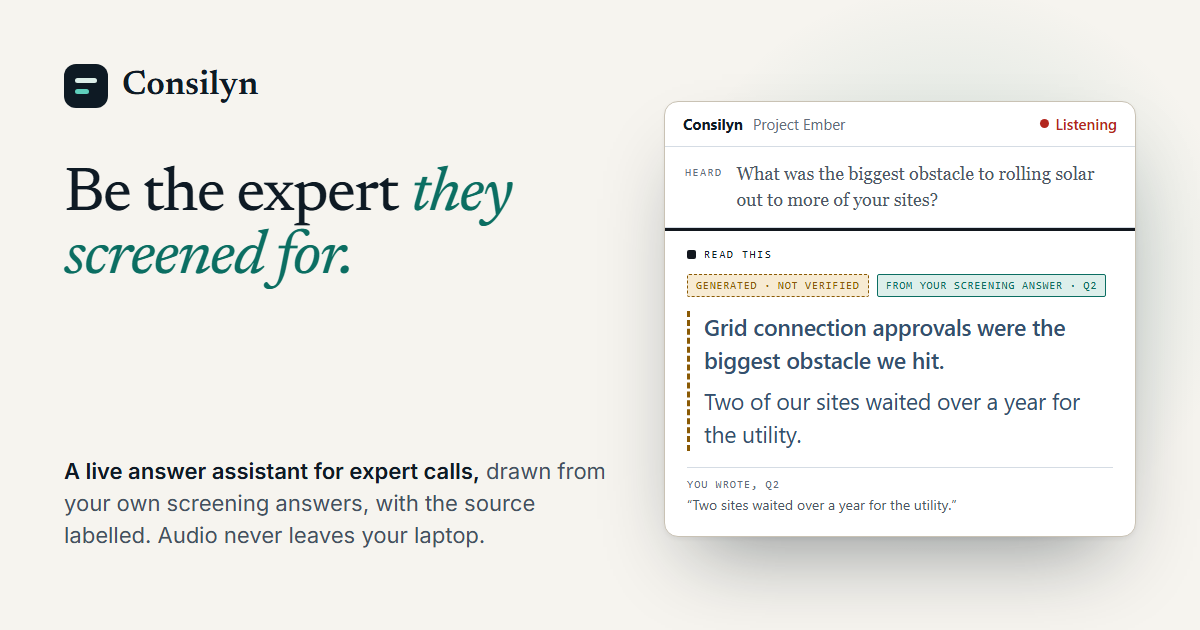
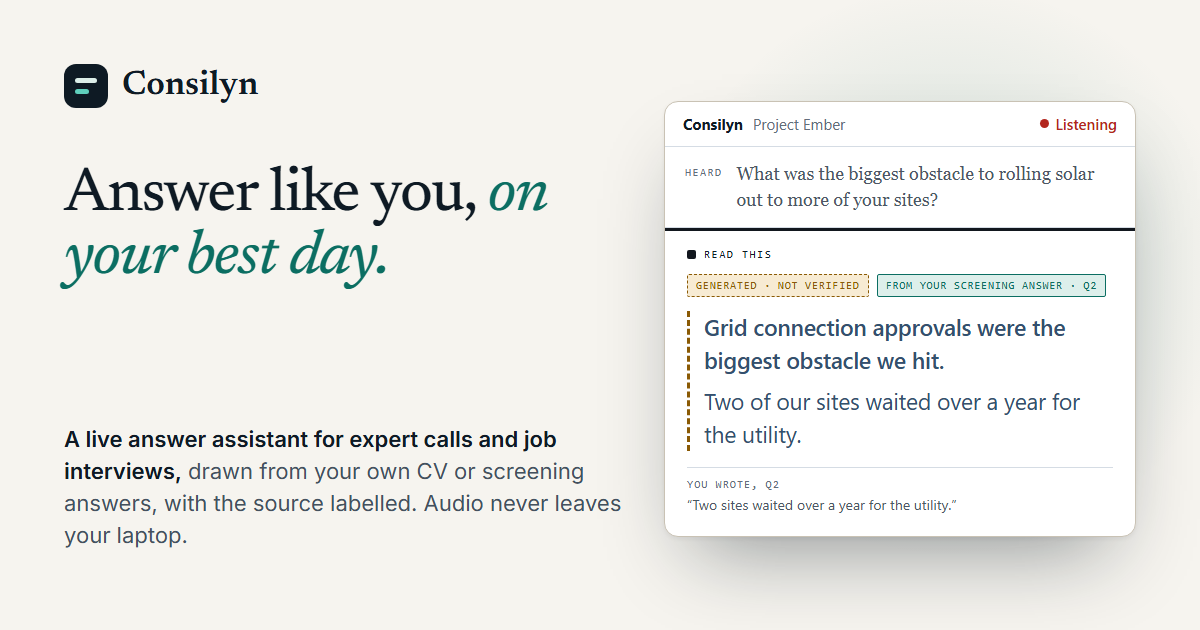
Home page leads with job interviews

Changed region(s): [[0.0308, 0.6635, 0.5242, 0.8746], [0.0308, 0.2413, 0.4625, 0.4524]]

diff --git a/index.html b/index.html
@@ -3,16 +3,16 @@
 <head>
 <meta charset="utf-8">
 <meta name="viewport" content="width=device-width, initial-scale=1">
-<title>Consilyn · AI answer assistant for expert network calls</title>
-<meta name="description" content="Short answers to say aloud on expert calls, built from your screening answers, with sources shown. Free in your browser on Windows and Mac. Audio stays local.">
+<title>Consilyn · Live answers for job interviews and expert calls</title>
+<meta name="description" content="Short answers to say aloud in job interviews and expert calls, built from your CV or screening answers, sources shown. Free in your browser. Audio stays local.">
 <link rel="canonical" href="https://consilyn.com/">
 <meta name="theme-color" content="#F6F4EF" media="(prefers-color-scheme: light)">
 <meta name="theme-color" content="#0B1117" media="(prefers-color-scheme: dark)">
 <meta name="color-scheme" content="light dark">
 <meta property="og:type" content="website">
 <meta property="og:site_name" content="Consilyn">
-<meta property="og:title" content="Consilyn · Be the expert they screened for">
-<meta property="og:description" content="Short answers to say aloud on expert calls, built from your own screening answers, with the source shown. Free in your browser on Windows and Mac; audio stays on your laptop.">
+<meta property="og:title" content="Consilyn · Answer like you, on your best day">
+<meta property="og:description" content="Short answers to say aloud in job interviews and expert calls, built from your own CV or screening answers, with the source shown. Free in your browser on Windows and Mac; audio stays on your laptop.">
 <meta property="og:url" content="https://consilyn.com/">
 <meta property="og:image" content="https://consilyn.com/assets/og.png">
 <meta property="og:image:width" content="1200">
@@ -259,9 +259,9 @@
 <section class="hero" aria-labelledby="hero-title">
   <div class="wrap hero-grid">
     <div class="hero-copy">
-      <p class="eyebrow">Live answer assistant for expert calls · Windows and Mac</p>
-      <h1 id="hero-title">Be the expert <em>they screened for.</em></h1>
-      <p class="intro">Consilyn listens to your call on your laptop and shows a short answer to say in your own words, built from the screening answers you submitted.</p>
+      <p class="eyebrow">Live answer assistant for expert calls and job interviews · Windows and Mac</p>
+      <h1 id="hero-title">Answer like you, <em>on your best day.</em></h1>
+      <p class="intro">Consilyn listens on your laptop and shows a short answer to each question, built from your own CV or screening answers. When a question catches you out, an answer is already there, even one your CV doesn&rsquo;t cover.</p>
       <div class="cta-row">
         <a class="btn btn-primary" href="/app/" data-track="start-hero">Start free in your browser
           <svg viewBox="0 0 24 24" fill="none" stroke="currentColor" stroke-width="2" stroke-linecap="round" stroke-linejoin="round" aria-hidden="true"><path d="M5 12h14M13 6l6 6-6 6"/></svg></a>
@@ -277,14 +277,15 @@
 
     <div class="demo" id="demo" data-demo>
       <div class="demo-tabs" role="group" aria-label="Example calls">
-        <button type="button" class="demo-tab" aria-pressed="true">Energy</button>
+        <button type="button" class="demo-tab" aria-pressed="true">Job interview</button>
+        <button type="button" class="demo-tab" aria-pressed="false">Energy</button>
         <button type="button" class="demo-tab" aria-pressed="false">Procurement software</button>
         <button type="button" class="demo-tab" aria-pressed="false">Logistics</button>
       </div>
       <div class="app" aria-hidden="true">
         <div class="app-bar">
           <span class="app-brand"><span class="app-mark"></span>Consilyn</span>
-          <span class="app-client">Project Ember<em> · on-site solar and storage</em></span>
+          <span class="app-client">Northwind Health<em> · product manager</em></span>
           <span class="app-spacer"></span>
           <span class="app-live">Listening</span>
           <span class="app-timer">00:42</span>
@@ -293,7 +294,7 @@
         <div class="app-heard-slot">
           <div class="app-heard">
             <span class="app-label">Heard</span>
-            <p class="app-heard-text"><span class="who">Lee</span>What was the biggest obstacle to rolling solar out to more of your sites?</p>
+            <p class="app-heard-text"><span class="who">Priya</span>Tell me about a product decision you&rsquo;re proud of.</p>
           </div>
           <div class="app-clash hidden"><p class="app-clash-text"></p><span class="x">&times;</span></div>
         </div>
@@ -304,10 +305,10 @@
         <div class="app-cutin hidden"></div>
         <div class="app-card answered">
           <div class="app-read">Read this</div>
-          <div class="app-prov"><span class="chip chip-unverified">Generated · not verified</span><span class="chip chip-verified">From your screening answer · Q2</span><span class="chip chip-muted">Prepared</span></div>
-          <p class="app-answer unverified look-b"><span class="sent lead">Grid connection approvals were the biggest obstacle we hit.</span><span class="sent">Two of our sites waited over a year for the utility.</span><span class="sent">So if you're modelling a rollout, I'd put the connection queue on the critical path, ahead of the panels.</span></p>
+          <div class="app-prov"><span class="chip chip-unverified">Not in your CV · your view</span><span class="chip chip-verified">From your CV</span><span class="chip chip-muted">Prepared</span></div>
+          <p class="app-answer unverified look-b"><span class="sent lead">Moving our customers from fixed weekly boxes to a flexible subscription.</span><span class="sent">Cancellations fell by a fifth in the first year.</span><span class="sent">It showed me that letting people pause is often what keeps them.</span></p>
           <div class="app-foot">
-            <div class="app-foot-item"><b>You wrote, Q2</b>&ldquo;Two sites waited over a year for the utility.&rdquo;</div>
+            <div class="app-foot-item"><b>Your CV</b>&ldquo;Led the move from fixed weekly boxes to a flexible subscription; cancellations fell by a fifth in the first year.&rdquo;</div>
           </div>
         </div>
         <div class="app-keys"><span><kbd>Esc</kbd> clear the screen</span></div>
@@ -329,6 +330,10 @@
       <details class="demo-text" id="demo-text">
         <summary>The example calls as text</summary>
 <!-- demo-text:start -->
+<h3>Job interview: Northwind Health · product manager</h3>
+<p><strong>Your CV:</strong> Product manager at a meal-kit delivery company for four years. Led the move from fixed weekly boxes to a flexible subscription; cancellations fell by a fifth in the first year. Before that, three years running customer support operations.</p>
+<p><strong>Your application answers:</strong></p><ul><li>Q1. Why do you want this role? <em>I want to work on a product people rely on for their health. I have spent years learning what makes people stay with a subscription.</em></li></ul>
+<ol><li><strong>Priya asks:</strong> Tell me about a product decision you&#x27;re proud of.<br>Answer, labelled Not in your CV · your view, From your CV, Prepared: Moving our customers from fixed weekly boxes to a flexible subscription. Cancellations fell by a fifth in the first year. It showed me that letting people pause is often what keeps them.<br>Your CV: “Led the move from fixed weekly boxes to a flexible subscription; cancellations fell by a fifth in the first year.”</li><li><strong>Priya asks:</strong> How would you win back patients who stop using the app after the first week?<br>Line to start with: That&#x27;s a good one to think through properly. Let me start with where I&#x27;d look first.<br>Answer, labelled Not in your CV · your view: My approach would be to study that first week before anything else. I&#x27;d find the step where most people drop off and talk to a few of them. Then I&#x27;d fix that one step before adding features.</li><li><strong>Priya asks:</strong> And why health, after meal kits?<br>Line to start with: Honestly, it&#x27;s the part of the move I&#x27;ve thought about most.<br>Answer, labelled Not in your CV · your view, From your application answer · Q1: I want to work on a product people rely on for their health. I&#x27;ve spent years learning what makes people stay with a subscription. Here that habit matters far more than it did for dinner.<br>You wrote, Q1: “I want to work on a product people rely on for their health.”</li></ol>
 <h3>Energy: Project Ember · on-site solar and storage</h3>
 <p><strong>Your background:</strong> Former energy manager for a regional grocery distributor.</p>
 <p><strong>Your screening answers:</strong></p><ul><li>Q1. Describe your on-site solar or storage experience. <em>I led rooftop solar at six of our warehouses. Payback came in at around seven years. We ran one battery pilot that we did not extend.</em></li><li>Q2. What was the biggest obstacle to more sites? <em>Grid connection approvals. Two sites waited over a year for the utility. Roof condition ruled out a third.</em></li></ul>
@@ -713,6 +718,73 @@
 
 <script type="application/json" id="demo-calls">
 [
+ {
+  "id": "interview",
+  "tab": "Job interview",
+  "kind": "interview",
+  "client": "Northwind Health · product manager",
+  "who": "Priya",
+  "background": "Product manager at a meal-kit delivery company for four years. Led the move from fixed weekly boxes to a flexible subscription; cancellations fell by a fifth in the first year. Before that, three years running customer support operations.",
+  "screening": [
+   [
+    "Why do you want this role?",
+    "I want to work on a product people rely on for their health. I have spent years learning what makes people stay with a subscription."
+   ]
+  ],
+  "turns": [
+   {
+    "heard": "Tell me about a product decision you're proud of.",
+    "prepared": true,
+    "prov": [
+     "Not in your CV · your view",
+     "From your CV"
+    ],
+    "text": "Moving our customers from fixed weekly boxes to a flexible subscription. Cancellations fell by a fifth in the first year. It showed me that letting people pause is often what keeps them.",
+    "foot": [
+     [
+      "Your CV",
+      "Led the move from fixed weekly boxes to a flexible subscription; cancellations fell by a fifth in the first year."
+     ]
+    ],
+    "caption": [
+     "Prepared",
+     "Answers to the likeliest questions are prepared from your CV before the interview, so they are on screen in seconds."
+    ]
+   },
+   {
+    "heard": "How would you win back patients who stop using the app after the first week?",
+    "say": "That's a good one to think through properly. Let me start with where I'd look first.",
+    "prov": [
+     "Not in your CV · your view"
+    ],
+    "text": "My approach would be to study that first week before anything else. I'd find the step where most people drop off and talk to a few of them. Then I'd fix that one step before adding features.",
+    "foot": [],
+    "caption": [
+     "Your approach",
+     "Beyond your CV it gives your approach in your own voice, marked so you know it did not come from your CV."
+    ]
+   },
+   {
+    "heard": "And why health, after meal kits?",
+    "say": "Honestly, it's the part of the move I've thought about most.",
+    "prov": [
+     "Not in your CV · your view",
+     "From your application answer · Q1"
+    ],
+    "text": "I want to work on a product people rely on for their health. I've spent years learning what makes people stay with a subscription. Here that habit matters far more than it did for dinner.",
+    "foot": [
+     [
+      "You wrote, Q1",
+      "I want to work on a product people rely on for their health."
+     ]
+    ],
+    "caption": [
+     "Your own words",
+     "What you wrote when you applied is quoted underneath, so you can say it with confidence."
+    ]
+   }
+  ]
+ },
  {
   "id": "energy",
   "tab": "Energy",

diff --git a/assets/site.js b/assets/site.js
@@ -170,6 +170,8 @@
 
   const reduceMotion = window.matchMedia("(prefers-reduced-motion: reduce)").matches;
   const GENERATED = "Generated · not verified";
+  // In an interview the app names AI-written text this way (app.js provLabel).
+  const UNVERIFIED = [GENERATED, "Not in your CV · your view"];
   const LOOKS = ["look-a", "look-b", "look-c"];
 
   /* ------------------------------------------------------------ helpers */
@@ -223,6 +225,7 @@
     let userPaused = reduceMotion;
     let look = 0;
     let seconds = 42;
+    let other = "client";   // who asks: the client, or in an interview the interviewer
 
     const active = () => !userPaused && visible && !document.hidden;
 
@@ -280,7 +283,7 @@
       ui.card.replaceChildren();
       ui.card.classList.remove("answered", "stale");
       const b = el("div", "app-blank");
-      b.append(el("h4", "", "Nothing on screen yet"), el("p", "", "A suggestion appears here when the client finishes a question."));
+      b.append(el("h4", "", "Nothing on screen yet"), el("p", "", `A suggestion appears here when the ${other} finishes a question.`));
       ui.card.appendChild(b);
     }
 
@@ -327,9 +330,9 @@
         prov.appendChild(el("span", "chip chip-verified chip-solid", turn.held.label));
         sentences(a, turn.held.text, true);
       } else {
-        turn.prov.forEach((label) => prov.appendChild(el("span", label === GENERATED ? "chip chip-unverified" : "chip chip-verified", label)));
+        turn.prov.forEach((label) => prov.appendChild(el("span", UNVERIFIED.includes(label) ? "chip chip-unverified" : "chip chip-verified", label)));
         if (turn.prepared) prov.appendChild(el("span", "chip chip-muted", "Prepared"));
-        if (turn.prov.includes(GENERATED)) a.classList.add("unverified");
+        if (turn.prov.some((l) => UNVERIFIED.includes(l))) a.classList.add("unverified");
         sentences(a, turn.text, true);
       }
       wear(a);
@@ -371,6 +374,7 @@
     // on screen. The first run starts from there instead of wiping it.
     async function playScenario(index, id, resume) {
       const sc = CALLS[index];
+      other = sc.kind === "interview" ? "interviewer" : "client";
       tabs.forEach((t, i) => t.setAttribute("aria-pressed", i === index ? "true" : "false"));
       let first = 0;
       if (resume) {
